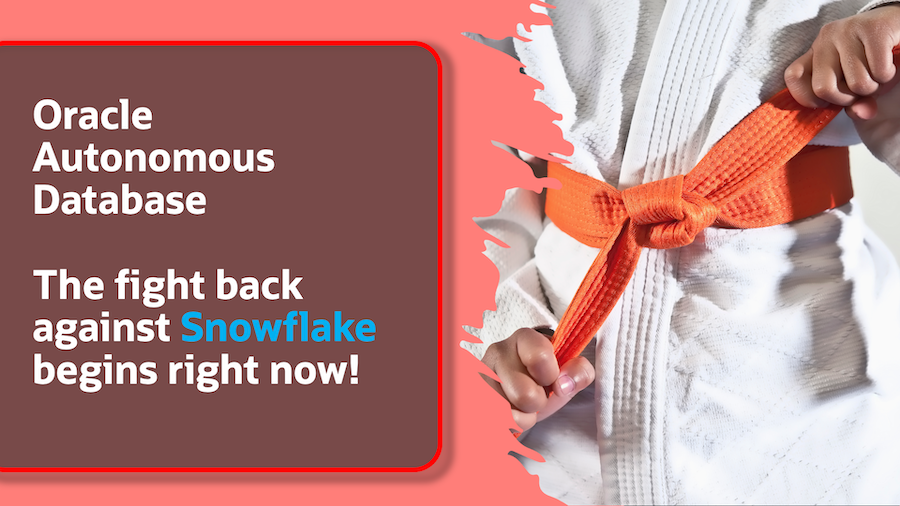
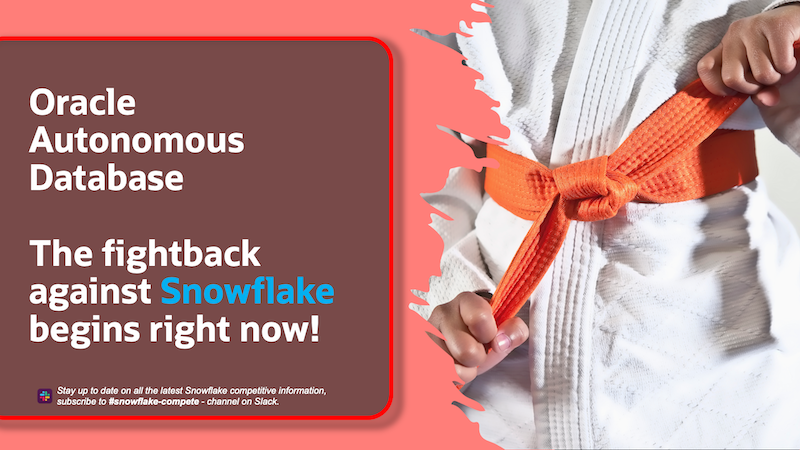
minor changes

diff --git a/ADB/Newsletter/ADB-clickbait.html b/ADB/Newsletter/ADB-clickbait.html
@@ -473,7 +473,7 @@ box-shadow: 0px 0px 0px white;}
 																							<td style="" class="fs14" valign="top" align="left">
 																								<span class="tmpTitle" etitle="Subtitle" data-personalization="false" disable-edtr-icon="Link,UnLink">
 																									<p class="basic_text" style="margin-right:70px; font-style: italic; font-family:Arial, Helvetica, sans-serif; font-size:14px; color:#000000;">
-																										Stay up to date on all the latests Snowflake competitive information, subscribe to<br><strong>#snowflake-compete</strong> - channel on Slack.
+																										Stay up to date on all the latest Snowflake competitive information, subscribe to<br><strong>#snowflake-compete</strong> - channel on Slack.
 																									</p>
 																									<br>
 																								</span>
